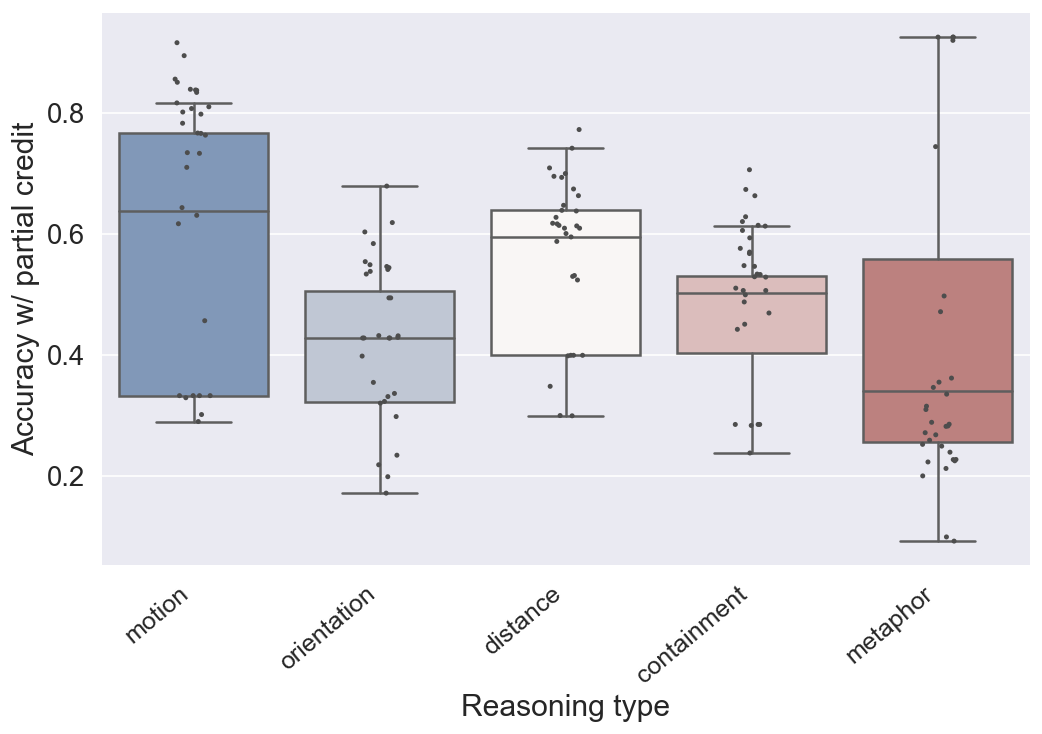
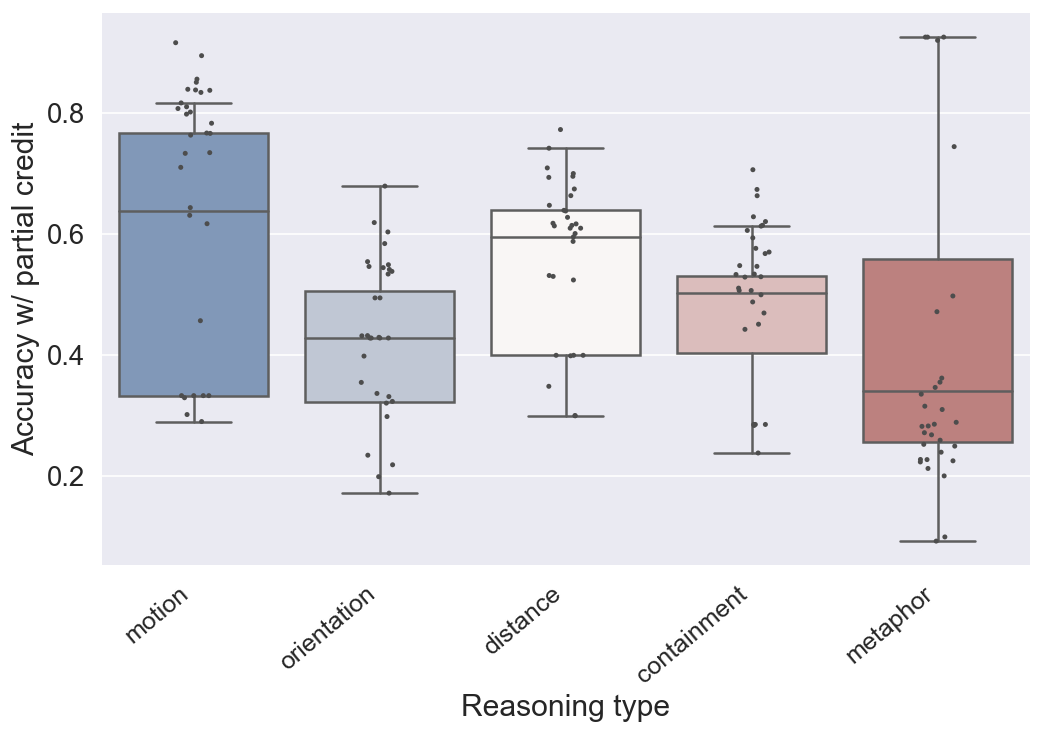
update figures

diff --git a/src/visualization.py b/src/visualization.py
@@ -103,7 +103,10 @@ def get_analysis_df(analysis_file_path):
     # remove '.DS_Store' file
     if '.DS_Store' in analysis_files:
         analysis_files.remove('.DS_Store')
-    
+        
+    if 'error-analysis.tsv' in analysis_files:
+        analysis_files.remove('error-analysis.tsv')
+
     # Combine all files to a dataframe
     df_analysis = pd.DataFrame()
     for model in analysis_files:
@@ -129,6 +132,12 @@ def get_summary_df(summary_file_path):
     # remove '.DS_Store' file
     if '.DS_Store' in summary_files:
         summary_files.remove('.DS_Store')
+        
+    if 'wopc-summary.tsv' in summary_files:
+        summary_files.remove('wopc-summary.tsv')
+
+    if 'wpc-summary.tsv' in summary_files:
+        summary_files.remove('wpc-summary.tsv')
 
     # Combine all files to a dataframe
     df_summary = pd.DataFrame()
@@ -170,6 +179,22 @@ def make_figure_analysis(df_path, output_dir):
     boxplt_1.set_xticklabels(boxplt_1.get_xticklabels(), rotation=20, ha="right", fontsize=15)
     boxplt_1.set(xlabel='Reasoning type', ylabel='Test accuracy')
     boxplt_1.figure.savefig('{}/Box plot of Reasoning type vs test accuracy.png'.format(output_dir), bbox_inches='tight')
+    
+    # Box plot of Reasoning type vs Test accuracy with the largest size
+    df_largest = pd.DataFrame()
+    for model in list(df.model.unique()):
+        max_size = df[df['model'] == model]['size'].max()
+        temp = df[df['size'] == max_size]
+        df_largest = pd.concat([df_largest, temp], ignore_index=True)
+    df_largest
+
+    plt.figure(figsize=(10,6), dpi=120)
+    sns.set(font_scale=1.5)
+    boxplt_largest_size = sns.boxplot(x='reasoning_type', y='test_acc', data=df_largest, palette='vlag')
+    sns.stripplot(x='reasoning_type', y='test_acc', data=df,size=3, color='.3')
+    boxplt_largest_size.set_xticklabels(boxplt_1.get_xticklabels(), rotation=20, ha="right", fontsize=15)
+    boxplt_largest_size.set(xlabel='Reasoning type', ylabel='Test accuracy')
+    boxplt_largest_size.figure.savefig('{}/Box plot of Reasoning type vs Test accuracy with the largest size'.format(output_dir), bbox_inches='tight')
 
 
     # Box plot of Model vs Test accuracy
@@ -296,21 +321,40 @@ def make_figure_summary(df_path, output_dir):
     
     # Line plot of Size vs Accuracy w/ partial credit averaged over all catogries.
     plt.figure(figsize = (15,8))
+    sns.set(font_scale = 2)
     line_plt = sns.lineplot(data=df[df['size'].notna()], x="size", y="acc_w_partial_credit", hue="model", err_style="bars", ci=68, markersize=15, linewidth = 3, style="model", markers=True)
     line_plt.set(ylim=(0, 1))
     line_plt.set(xscale='log')
-    line_plt.set(xlabel='Size (Number of parameters)', ylabel='Accuracy w/ partial credit')
+    #line_plt.set(xlabel='Size (Number of parameters)', ylabel='Accuracy w/ partial credit')
+    line_plt.set_xlabel("Size (Number of parameters)",fontsize=25)
+    line_plt.set_ylabel("Accuracy w/ partial credit",fontsize=25)
     line_plt.legend(bbox_to_anchor=(1.05, 1), loc=2, fontsize='20').set_title("Models")
     line_plt.figure.savefig('{}/Size vs Accuracy with partial credit averaged over all catogries.png'.format(output_dir), bbox_inches='tight')
+    
+    # Line plot of Size vs Accuracy without partial credit averaged over all catogries
+    plt.figure(figsize = (15,8))
+    sns.set(font_scale = 2)
+    line_plt = sns.lineplot(data=df[df['size'].notna()], x="size", y="acc_wo_partial_credit", hue="model", err_style="bars", ci=68, markersize=15, linewidth = 3, style="model", markers=True)
+    line_plt.set(ylim=(0, 1))
+    line_plt.set(xscale='log')
+    #line_plt.set(xlabel='Size (Number of parameters)', ylabel='Accuracy w/ partial credit')
+    line_plt.set_xlabel("Size (Number of parameters)",fontsize=25)
+    line_plt.set_ylabel("Accuracy w/o partial credit",fontsize=25)
+    line_plt.legend(bbox_to_anchor=(1.05, 1), loc=2, fontsize='20').set_title("Models")
+    line_plt.figure.savefig('{}/Size vs Accuracy without partial credit averaged over all catogries.png'.format(output_dir), bbox_inches='tight')
+
     
     
     df_with_size = df[df['size'].notna()]
     # Line plots of Size vs Accuracy w/ partial credit averaged by catogries.
     for i in ['motion', 'orientation', 'distance', 'containment', 'metaphor']:
         plt.figure(figsize = (15,8))
+        sns.set(font_scale = 2)
         temp_plt = sns.lineplot(data=df_with_size[df_with_size['reasoning_type'] == i], x="size", y="acc_w_partial_credit", hue="model", estimator = None, markersize=10, linewidth = 3, marker="o")
         temp_plt.set(ylim=(0, 1))
-        temp_plt.set(title=i.capitalize(), xlabel='Size (Number of parameters)', ylabel='Accuracy w/ partial credit')
+        temp_plt.set(title=i.capitalize())
+        line_plt.set_xlabel("Size (Number of parameters)",fontsize=25)
+        line_plt.set_ylabel("Accuracy w/ partial credit",fontsize=25)
         temp_plt.set(xscale='log')
         temp_plt.legend(bbox_to_anchor=(1.05, 1), loc=2, fontsize='15').set_title("Models")
         temp_plt.figure.savefig('{}/Size vs Accuracy with partial credit averaged over {}.png'.format(output_dir, i), bbox_inches='tight')
